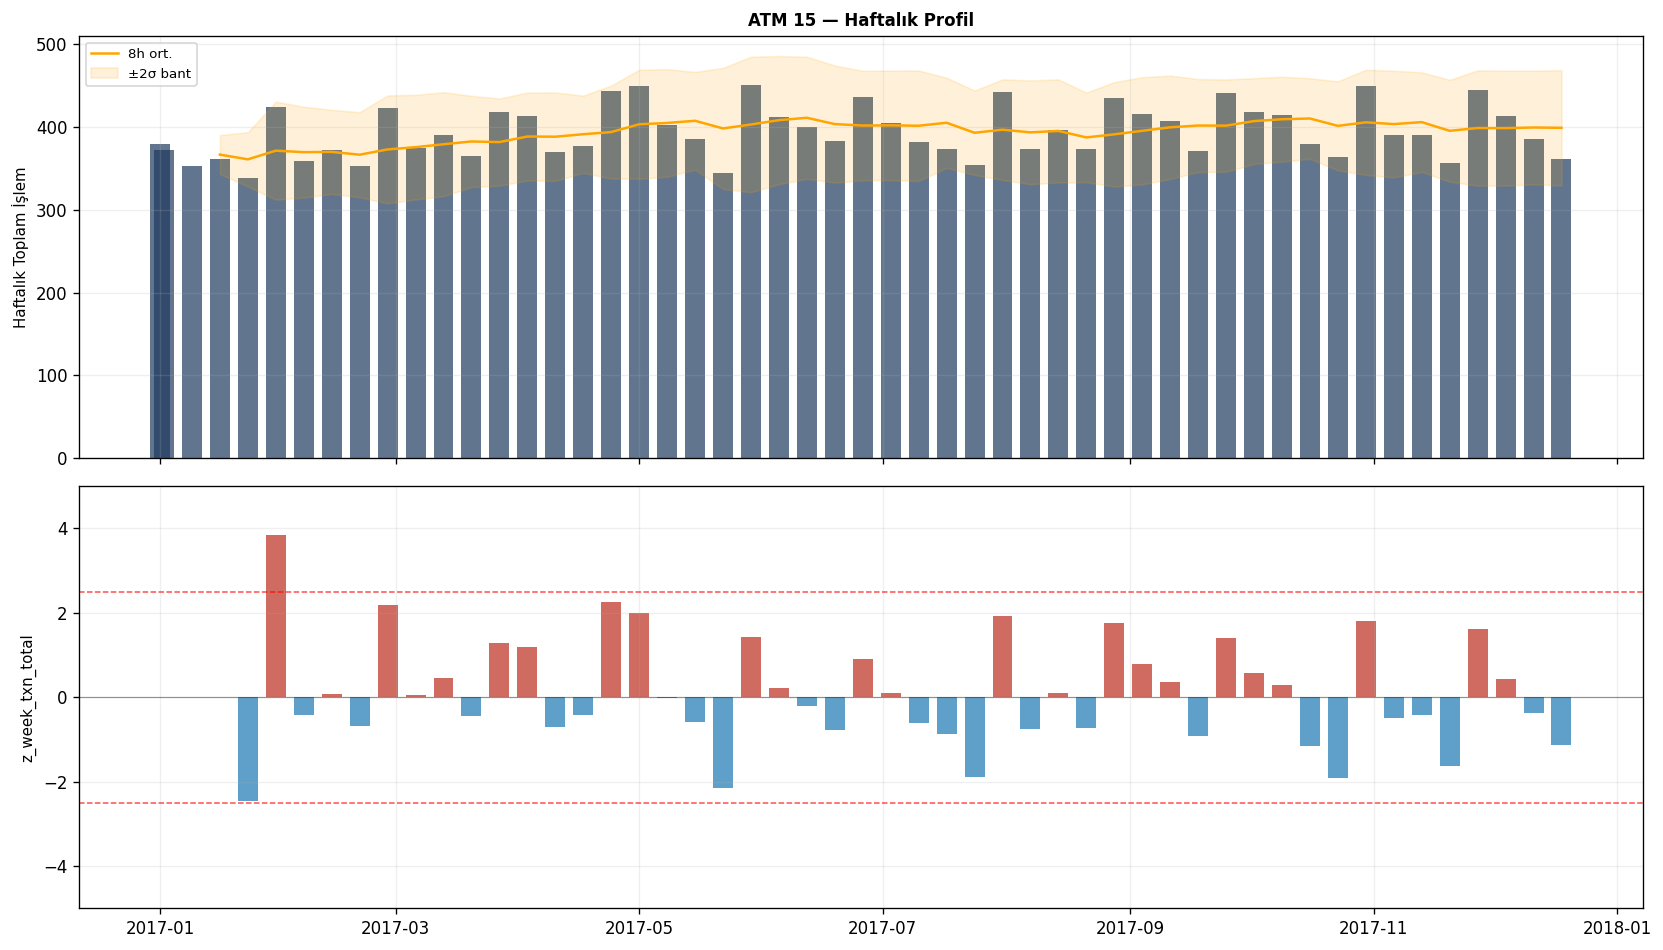
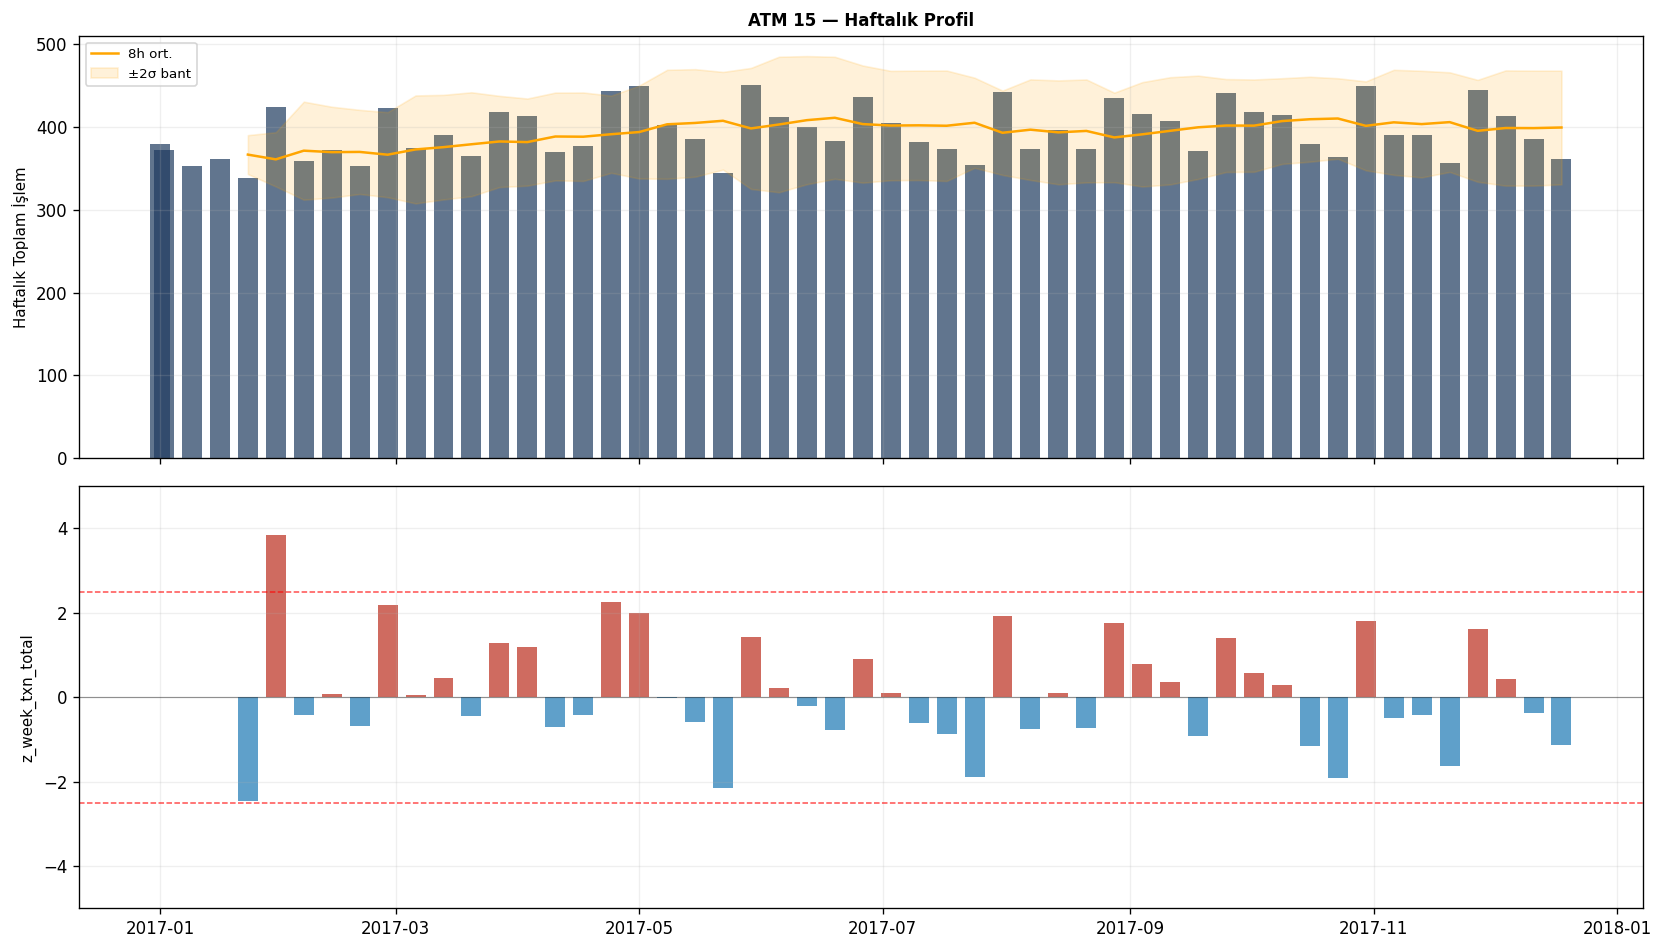
Teknik audit uygulandı (6 madde)
- atm_twin_v3.py: pathlib path'leri, baseline'dan low-txn gun NaN maskeleme,
  grafik baseline shift(1) ile tutarlilastirildi, dynamic txn_count print
- atm_mintxn_sweep.py: pathlib path'leri, tautological Kriter B kaldirildi;
  oneri artik yalnizca stability elbow + veri kaybi uzerinden gerekcelendiriliyor
- requirements.txt: kullanilmayan seaborn kaldirildi

diff --git a/atm_twin_v3.py b/atm_twin_v3.py
@@ -1,3 +1,4 @@
+import pathlib
 import pandas as pd
 import numpy as np
 import matplotlib
@@ -8,8 +9,10 @@ from sklearn.preprocessing import StandardScaler
 import warnings
 warnings.filterwarnings("ignore")
 
-DATA_DIR = r"C:\Users\Msi\source\repos\LeaderElectionDemo\FraudDemo\spar_nord_data"
-OUT_DIR  = r"C:\Users\Msi\source\repos\LeaderElectionDemo\FraudDemo"
+BASE_DIR = pathlib.Path(__file__).parent
+DATA_DIR = BASE_DIR / "spar_nord_data"
+OUT_DIR  = BASE_DIR
+
 WINDOW_D = 28
 WINDOW_W = 8
 Z_THR    = 2.5
@@ -20,8 +23,8 @@ TARGET_DATE = pd.Timestamp("2017-08-31")
 
 # ── 1. VERİ YÜKLE + TEMİZLE + FEATURE ENGINEERING ──────────────────────────
 print("Veri yükleniyor...")
-p1 = pd.read_csv(f"{DATA_DIR}/atm_data_part1.csv", low_memory=False)
-p2 = pd.read_csv(f"{DATA_DIR}/atm_data_part2.csv", low_memory=False)
+p1 = pd.read_csv(DATA_DIR / "atm_data_part1.csv", low_memory=False)
+p2 = pd.read_csv(DATA_DIR / "atm_data_part2.csv", low_memory=False)
 df_raw = pd.concat([p1, p2], ignore_index=True)
 # Duplicate: 33 orijinal sütunun tamamı birebir eşit olan satırları kaldır.
 # is_dup gibi türetilmiş kolon varken drop_duplicates() çağırmak partial cleaning yapar;
@@ -94,10 +97,13 @@ def compute_zscores(df_in, min_txn):
     d["low_txn"] = (d["txn_count"] < min_txn).astype(int)
 
     def rzs(group, col):
-        # z = (güncel - 28g_ort) / 28g_std  —  her ATM kendi geçmişiyle kıyaslanır
-        rm   = group[col].shift(1).rolling(WINDOW_D, min_periods=7).mean()
-        rs   = group[col].shift(1).rolling(WINDOW_D, min_periods=7).std()
-        # rolling_std < MIN_STD ise z'yi 0 yap: çok düşük varyansta matematiksel şişme önlenir
+        # z = (güncel - baseline_ort) / baseline_std  —  her ATM kendi geçmişiyle kıyaslanır.
+        # Baseline yalnızca geçerli günlerden (txn_count >= min_txn) hesaplanır:
+        # düşük txn günleri NaN olarak maskelenir, rolling hesabı NaN'ları atlar.
+        col_valid = group[col].where(group["txn_count"] >= min_txn, other=np.nan)
+        rm   = col_valid.shift(1).rolling(WINDOW_D, min_periods=7).mean()
+        rs   = col_valid.shift(1).rolling(WINDOW_D, min_periods=7).std()
+        # rolling_std < MIN_STD ise z'yi 0 yap: çok düşük varyansta matematiksel şişme önlenir.
         safe = rs.where(rs >= MIN_STD, other=np.nan)
         z    = (group[col] - rm) / safe
         z    = z.fillna(0)
@@ -203,7 +209,7 @@ daily_v3 = daily_v3.merge(
 
 def get_triggered(row):
     if row["low_txn"] == 1:
-        return "profil_disi (txn<8)"
+        return f"profil_disi (txn<{CHOSEN_MIN_TXN})"
     pairs = [(f, abs(row[f"z_{f}"])) for f in feature_cols
              if pd.notna(row[f"z_{f}"]) and abs(row[f"z_{f}"]) > Z_THR]
     pairs.sort(key=lambda x: x[1], reverse=True)
@@ -225,7 +231,7 @@ if not row31.empty:
     win = atm15.iloc[max(0, idx - WINDOW_D): idx]
     win_e = win[win["low_txn"] == 0]
 
-    print(f"\nTemizlenmiş ham satır: 80")
+    print(f"\nTemizlenmiş ham satır: {int(r['txn_count'])}")
     print(f"{'Feature':<20} {'28g-Ort':>9} {'28g-Std':>9} {'Bant [±2σ]':>18} {'Güncel':>9} {'Z':>7} {'Sapma%':>8} {'Durum':>9}")
     print("-" * 96)
     for f in feature_cols:
@@ -373,8 +379,9 @@ for ax, (feat, col, lbl) in zip(axes, [
     ("hour_entropy","#1A6B6B", "Saatlik Entropi"),
 ]):
     sub = atm15_plot.dropna(subset=[feat])
-    rm  = sub[feat].rolling(WINDOW_D, min_periods=7).mean()
-    rs  = sub[feat].rolling(WINDOW_D, min_periods=7).std().fillna(0)
+    # shift(1).rolling() — model baseline ile tutarlı; güncel gün kendi baseline'ına katılmaz
+    rm  = sub[feat].shift(1).rolling(WINDOW_D, min_periods=7).mean()
+    rs  = sub[feat].shift(1).rolling(WINDOW_D, min_periods=7).std().fillna(0)
     ax.fill_between(sub["date"], (rm-2*rs).clip(lower=0), rm+2*rs, alpha=0.15, color=col, label="±2σ bant")
     ax.plot(sub["date"], sub[feat], color=col, lw=1.1, label=lbl)
     ax.plot(sub["date"], rm, color=col, lw=1.5, ls="--", alpha=0.5, label="28g ort.")
@@ -396,7 +403,7 @@ axes[0].set_title(f"ATM {TARGET_ATM} — Günlük Profil (MIN_TXN={CHOSEN_MIN_TX
                   "Gri dikey: month_end_window bağlamı | Turuncu: 31 Ağustos",
                   fontsize=10, fontweight="bold")
 plt.tight_layout()
-plt.savefig(f"{OUT_DIR}/10_v3_atm15_daily.png", dpi=120, bbox_inches="tight")
+plt.savefig(OUT_DIR / "10_v3_atm15_daily.png", dpi=120, bbox_inches="tight")
 plt.close()
 print("  10_v3_atm15_daily.png")
 
@@ -404,8 +411,8 @@ fig, axes = plt.subplots(2, 1, figsize=(14, 8), sharex=True)
 atm15_wk = weekly_base[weekly_base["atm_id"]==TARGET_ATM].sort_values("week_start")
 ax = axes[0]
 ax.bar(atm15_wk["week_start"], atm15_wk["week_txn_total"], color="#1E3A5F", alpha=0.7, width=5)
-wm = atm15_wk["week_txn_total"].rolling(WINDOW_W, min_periods=4).mean()
-ws = atm15_wk["week_txn_total"].rolling(WINDOW_W, min_periods=4).std().fillna(0)
+wm = atm15_wk["week_txn_total"].shift(1).rolling(WINDOW_W, min_periods=4).mean()
+ws = atm15_wk["week_txn_total"].shift(1).rolling(WINDOW_W, min_periods=4).std().fillna(0)
 ax.plot(atm15_wk["week_start"], wm, color="orange", lw=1.5, label="8h ort.")
 ax.fill_between(atm15_wk["week_start"], (wm-2*ws).clip(lower=0), wm+2*ws,
                 alpha=0.15, color="orange", label="±2σ bant")
@@ -424,7 +431,7 @@ ax.set_ylabel("z_week_txn_total", fontsize=9)
 ax.set_ylim(-5, 5)
 ax.grid(True, alpha=0.2)
 plt.tight_layout()
-plt.savefig(f"{OUT_DIR}/11_v3_atm15_weekly.png", dpi=120, bbox_inches="tight")
+plt.savefig(OUT_DIR / "11_v3_atm15_weekly.png", dpi=120, bbox_inches="tight")
 plt.close()
 print("  11_v3_atm15_weekly.png")
 
@@ -448,11 +455,11 @@ ax.legend(fontsize=9)
 ax.tick_params(axis="x", labelsize=6, rotation=90)
 ax.grid(True, axis="y", alpha=0.25)
 plt.tight_layout()
-plt.savefig(f"{OUT_DIR}/12_v3_fleet_anomaly.png", dpi=120, bbox_inches="tight")
+plt.savefig(OUT_DIR / "12_v3_fleet_anomaly.png", dpi=120, bbox_inches="tight")
 plt.close()
 print("  12_v3_fleet_anomaly.png")
 
-atm_sum.to_csv(f"{OUT_DIR}/atm_v3_summary.csv", index=False)
+atm_sum.to_csv(OUT_DIR / "atm_v3_summary.csv", index=False)
 print("\n" + "="*65)
 print(f"V3 TAMAMLANDI (MIN_TXN={CHOSEN_MIN_TXN})")
 print("="*65)

diff --git a/atm_mintxn_sweep.py b/atm_mintxn_sweep.py
@@ -2,7 +2,9 @@
 MIN_TXN Sistematik Tarama — 3'ten 30'a
 Z-score bir kez hesaplanır (maskeleme yok); her eşik için maskeleme uygulanır.
 Baseline sabit tutulmuş yaklaşım: stability elbow tespiti için yeterli doğruluk.
+Final pipeline (atm_twin_v3.py) baseline'ı yalnızca geçerli günlerden hesaplar.
 """
+import pathlib
 import pandas as pd
 import numpy as np
 import matplotlib
@@ -11,8 +13,9 @@ import matplotlib.pyplot as plt
 import warnings
 warnings.filterwarnings("ignore")
 
-DATA_DIR = r"C:\Users\Msi\source\repos\LeaderElectionDemo\FraudDemo\spar_nord_data"
-OUT_DIR  = r"C:\Users\Msi\source\repos\LeaderElectionDemo\FraudDemo"
+BASE_DIR = pathlib.Path(__file__).parent
+DATA_DIR = BASE_DIR / "spar_nord_data"
+OUT_DIR  = BASE_DIR
 WINDOW_D = 28
 Z_THR    = 2.5
 MIN_STD  = 0.01
@@ -21,8 +24,8 @@ MIN_STD  = 0.01
 # 1. VERİ + FEATURE ENGINEERING (bir kez)
 # ═══════════════════════════════════════════════════════════════════════════════
 print("Veri yükleniyor...")
-p1 = pd.read_csv(f"{DATA_DIR}/atm_data_part1.csv", low_memory=False)
-p2 = pd.read_csv(f"{DATA_DIR}/atm_data_part2.csv", low_memory=False)
+p1 = pd.read_csv(DATA_DIR / "atm_data_part1.csv", low_memory=False)
+p2 = pd.read_csv(DATA_DIR / "atm_data_part2.csv", low_memory=False)
 df = pd.concat([p1, p2], ignore_index=True).drop_duplicates()
 df["date"] = pd.to_datetime(
     df["year"].astype(str) + "-" +
@@ -248,7 +251,7 @@ ax.set_xticks(SWEEP_VALS)
 ax.tick_params(axis="x", labelsize=7)
 
 plt.tight_layout()
-plt.savefig(f"{OUT_DIR}/13_mintxn_sweep.png", dpi=120, bbox_inches="tight")
+plt.savefig(OUT_DIR / "13_mintxn_sweep.png", dpi=120, bbox_inches="tight")
 plt.close()
 print("\nGrafik: 13_mintxn_sweep.png")
 
@@ -262,52 +265,35 @@ print("=" * 65)
 # Delta serisini yazdır ve elbow noktasını tespit et
 deltas = sweep[["min_txn","median_top10_maxz","delta_med","excl_pct","z_anom_pct"]].copy()
 
-# İki kriter:
-# A) median_top10_maxz'nin büyük düşüşler yaşandıktan sonra <1.0 delta'ya girdiği ilk nokta
-# B) top-10 içindeki en düşük txn_count'un MIN_TXN'e eşit veya yakın olduğu nokta
+# Stability elbow: median_top10_maxz büyük düşüşlerden sonra |Δ| < 1.0'a girdiği ilk nokta.
+# valid = daily[txn_count >= mt] filtresinden sonra top-10'un min txn_count'u
+# her zaman >= mt olur (tautoloji) — bu bağımsız bir kriter değildir.
+crit_a = (
+    sweep[sweep["delta_med"].fillna(999) < 1.0].iloc[0]["min_txn"]
+    if not sweep[sweep["delta_med"].fillna(999) < 1.0].empty else None
+)
 
-print("\nKriterler:")
-print("  A) |Δ median_top10_maxz| < 1.0 olan ilk MIN_TXN")
-print("  B) top-10 min txn_count >= MIN_TXN (yapay sapma kalmadı)")
-print()
+print(f"\n  Stability elbow (|Δ| < 1.0 ilk nokta)  : MIN_TXN = {crit_a}")
+print(f"  Stability elbow (Grafik)                : MIN_TXN = {elbow_x if not stable.empty else 'N/A'}")
 
-# Kriter A
-crit_a = sweep[sweep["delta_med"].fillna(999) < 1.0].iloc[0]["min_txn"] if not sweep[sweep["delta_med"].fillna(999) < 1.0].empty else None
-
-# Kriter B: her eşik için top-10 min txn
-crit_b_data = []
-for mt in SWEEP_VALS:
-    valid = daily[daily["txn_count"] >= mt]
-    top10_min = valid.nlargest(10, "raw_max_z")["txn_count"].min()
-    crit_b_data.append({"min_txn": mt, "top10_min_txn": top10_min})
-crit_b_df = pd.DataFrame(crit_b_data)
-# İlk nokta: top10_min_txn >= MIN_TXN (top-10 içindeki en az işlemli gün eşiğin altında değil)
-crit_b_rows = crit_b_df[crit_b_df["top10_min_txn"] >= crit_b_df["min_txn"]]
-crit_b = int(crit_b_rows.iloc[0]["min_txn"]) if not crit_b_rows.empty else None
-
-print(f"  Kriter A (|Δ|<1.0 ilk nokta)            : MIN_TXN = {crit_a}")
-print(f"  Kriter B (top-10 hepsi >= eşik)         : MIN_TXN = {crit_b}")
-
-# Elbow grafikteki nokta
-print(f"\n  Stability elbow (Grafik)                : MIN_TXN = {elbow_x if not stable.empty else 'N/A'}")
-
-# Öneri
-recommended = max(filter(None, [crit_a, crit_b]), default=10)
+# Öneri: elbow'un bir sonraki adımı — stabilizasyon başladıktan hemen sonra,
+# veri kaybı hâlâ düşükken.
+recommended = (int(crit_a) + 1) if crit_a is not None else 8
 r_row = sweep[sweep["min_txn"] == recommended].iloc[0]
 print(f"""
 Öneri: MIN_TXN = {int(recommended)}
 
   Sayısal gerekçe:
-    Excluded %         : {r_row['excl_pct']:.1f}%  (veri kaybı kabul edilebilir)
-    Z-score anomali %  : {r_row['z_anom_pct']:.1f}%
-    Median top-10 max_z: {r_row['median_top10_maxz']:.2f}  (bu noktadan sonra Δ < 1.0)
-    ATM 15 / 31 Ağu    : {'EVET' if r_row['atm15_anom'] else 'HAYIR'}
+    Stability elbow     : MIN_TXN = {int(crit_a) if crit_a else '?'} (|Δ median top-10 max_z| < 1.0 ilk kez)
+    Veri kaybı (excl%)  : {r_row['excl_pct']:.1f}%  (kabul edilebilir)
+    Z-score anomali %   : {r_row['z_anom_pct']:.1f}%
+    Median top-10 max_z : {r_row['median_top10_maxz']:.2f}
+    ATM 15 / 31 Ağu     : {'EVET' if r_row['atm15_anom'] else 'HAYIR'}  (referans örnek stabil)
 
-  MIN_TXN < {int(recommended)}: top-10 içinde txn_count eşiğin altında günler var;
-    oran feature'ları örneksizlikten kaynaklanan yapay uç değerler üretiyor.
-  MIN_TXN > {int(recommended)}: ek veri kaybı var, anomali oranı daha az değişiyor;
-    marginal kazanç giderek azalıyor.
+  MIN_TXN < {int(recommended)}: median top-10 max_z henüz stabilize olmamış;
+    düşük txn günlerinden kaynaklanan yapay uç z-değerleri top-10'u baskılıyor.
+  MIN_TXN > {int(recommended)}: ek veri kaybı artar, marginal kazanım azalır.
 """)
 
-sweep.to_csv(f"{OUT_DIR}/mintxn_sweep_results.csv", index=False)
+sweep.to_csv(OUT_DIR / "mintxn_sweep_results.csv", index=False)
 print("Sweep tablosu: mintxn_sweep_results.csv")
